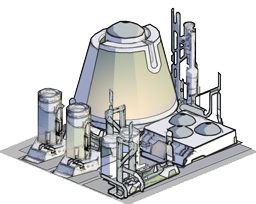
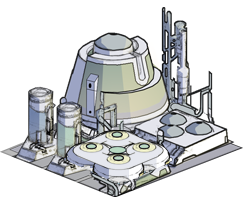
Fixed bug with greed FX on housing placement

diff --git a/stratos/game/civilian/FindHome.java b/stratos/game/civilian/FindHome.java
@@ -20,7 +20,7 @@ import stratos.util.*;
 public class FindHome extends Plan implements Economy {
   
   
-  private static boolean verbose = false ;
+  private static boolean verbose = true;
   
   
   final Employment newHome ;
@@ -209,7 +209,7 @@ public class FindHome extends Plan implements Economy {
       maxPop = HoldingUpgrades.OCCUPANCIES[UL] ;
     final float crowding = residents.size() * 1f / maxPop ;
     
-    float rating = 1 ;
+    float rating = (1 + UL) / HoldingUpgrades.NUM_LEVELS ;
     if (holding == actor.mind.home()) {
       rating *= 1.5f ;
     }
@@ -217,9 +217,10 @@ public class FindHome extends Plan implements Economy {
     if (holding.inWorld()) {
       rating *= 1.5f ;
     }
+    if (actor.mind.home() == null) rating += ROUTINE ;
     
-    rating *= (UL + 1) * (2f - crowding) / HoldingUpgrades.NUM_LEVELS ;
-    rating -= actor.mind.greedFor(HoldingUpgrades.TAX_LEVELS[UL]) * 5 ;
+    rating *= (2f - crowding) ;
+    rating -= actor.mind.greedFor(HoldingUpgrades.TAX_LEVELS[UL]) / ROUTINE ;
     rating -= Plan.rangePenalty(actor.mind.work(), holding) ;
     
     if (residents.size() > 0) {

diff --git a/stratos/game/base/CultureVats.java b/stratos/game/base/CultureVats.java
@@ -24,7 +24,7 @@ public class CultureVats extends Venue implements Economy {
   /**  Fields, constructors, and save/load methods-
     */
   final public static ModelAsset MODEL = CutoutModel.fromImage(
-    CultureVats.class, "media/Buildings/physician/culture_vats.png", 4, 3
+    CultureVats.class, "media/Buildings/physician/culture_vats.png", 3, 2
   );
   final public static ImageAsset ICON = ImageAsset.fromImage(
     "media/GUI/Buttons/culture_vats_button.gif", CultureVats.class
@@ -32,7 +32,7 @@ public class CultureVats extends Venue implements Economy {
   
   
   public CultureVats(Base base) {
-    super(4, 3, ENTRANCE_NORTH, base) ;
+    super(3, 2, ENTRANCE_NORTH, base) ;
     structure.setupStats(
       400, 3, 450,
       Structure.NORMAL_MAX_UPGRADES, Structure.TYPE_VENUE

diff --git a/stratos/game/civilian/FindWork.java b/stratos/game/civilian/FindWork.java
@@ -13,8 +13,7 @@ import stratos.util.*;
 public class FindWork extends Plan implements Economy {
   
   
-  private static boolean verbose = true;
-  
+  private static boolean verbose = false;
   
   final Application application ;
   final float rating ;

diff --git a/stratos/graphics/sfx/TalkFX.java b/stratos/graphics/sfx/TalkFX.java
@@ -197,7 +197,7 @@ public class TalkFX extends SFX {
         flatPoint.x + bubble.xoff,
         flatPoint.y + bubble.yoff,
         flatPoint.z + 0.05f,
-        pass, speaks ? false : true
+        pass, true//speaks ? false : true
       );
     }
   }
